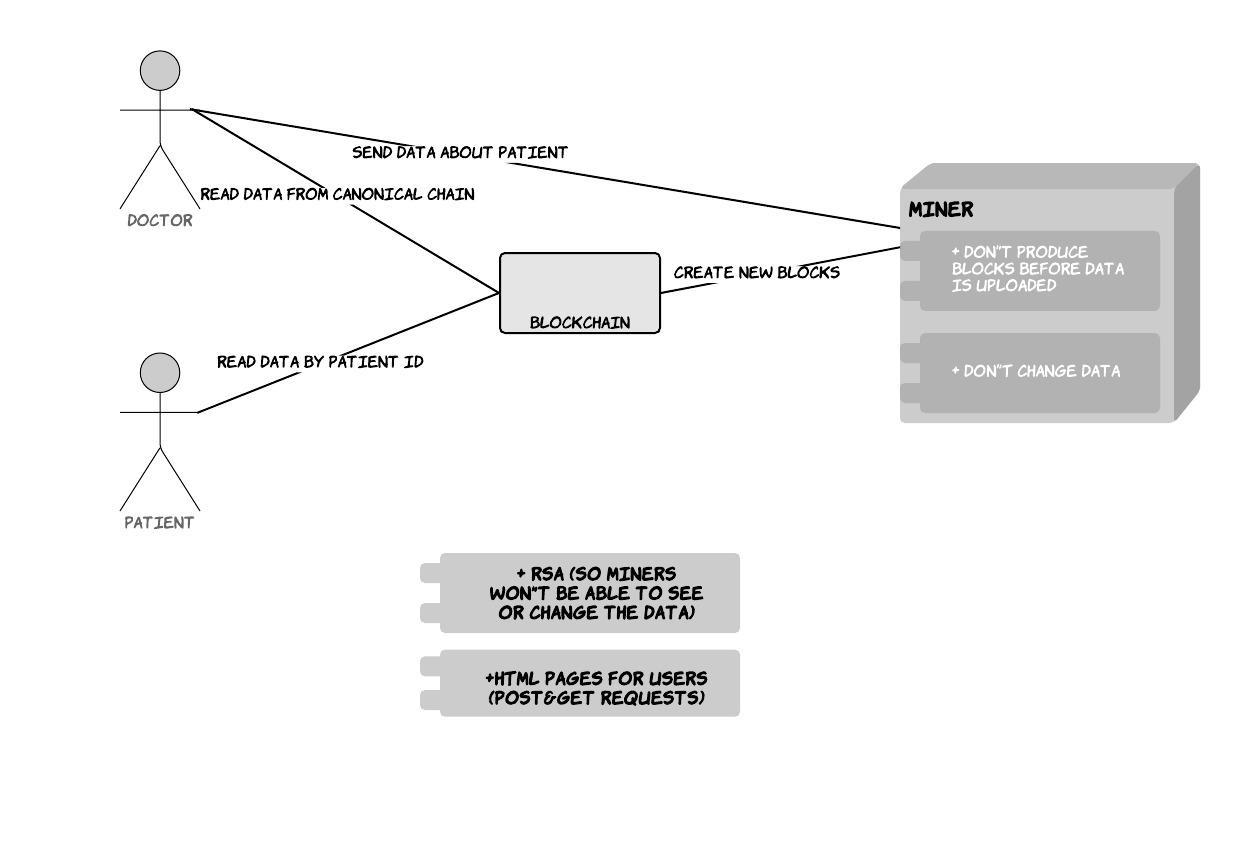
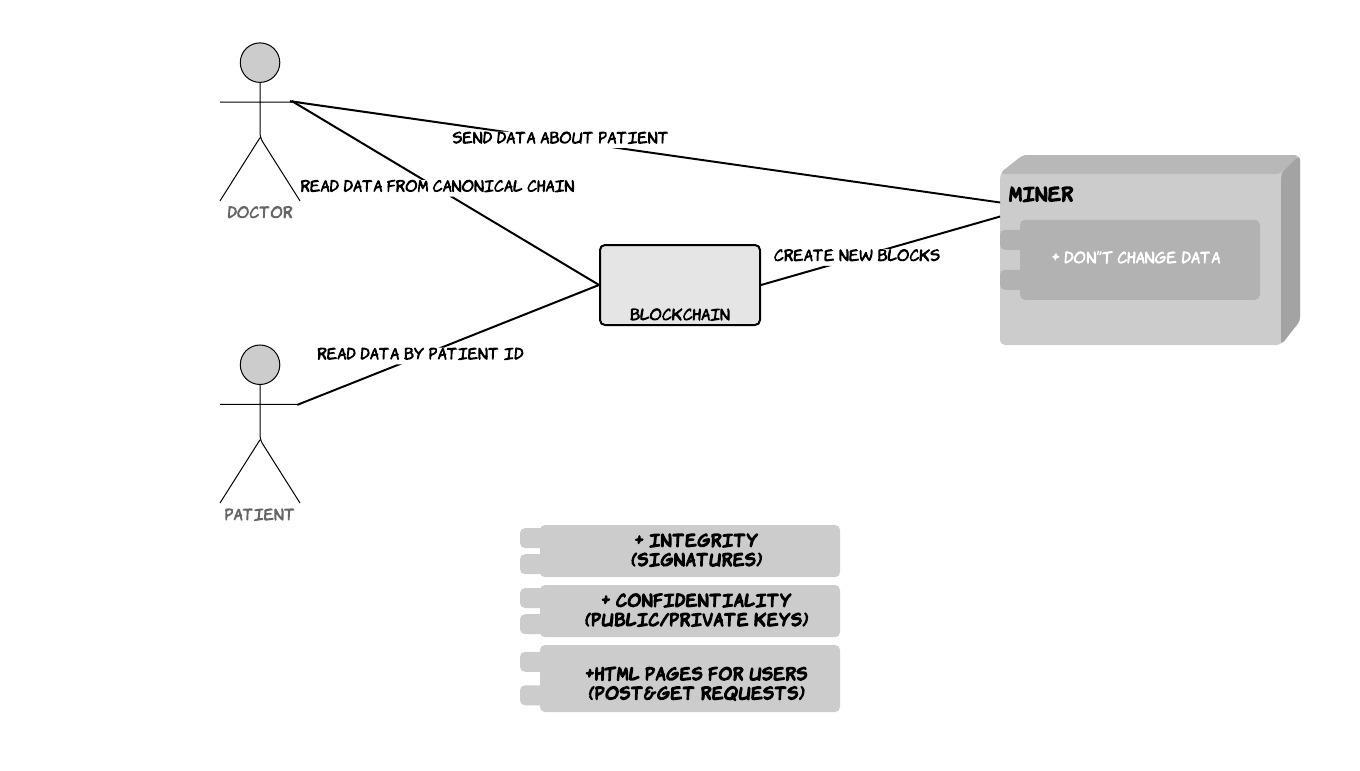
Updated README with picture and link

diff --git a/README.md b/README.md
@@ -7,7 +7,7 @@ Healthcare data
 
 ### Why/How
 
-Today, doctors, nurses & health professionals are limited in the level of care they can provide, because they canâ€™t view complete, accurate health records. Doctors will be able to publish medical records safely on the blockchain and only authorized people will be able to access the data.
+Today, doctors, nurses & health professionals are limited in the level of care they can provide, because they can not view complete, accurate health records. Doctors will be able to publish medical records safely on the blockchain and only authorized people will be able to access the data.
 Medical institutions will be able to securely share data, no medical records will be lost. Test results will come on time and the probability of correct diagnosis and effective treatment will be higher. Blockchain is immutable, so nobody will be able to fake or lose data. Blockchain is decentralized, so the information will be stored not only in one datacenter, in this case - in different medical institutions.
 
 ### Functionalities/Success
@@ -103,7 +103,9 @@ WebPage to write DocID
 POST /patient
 See information about a particular patient
 
+### Use Case Diagram
 
+![alt text](https://github.com/BettyRain/blockchain_project5/blob/master/Project5UseCaseDiagram.jpeg)
 
 ### Timeline and milestones
 
@@ -116,3 +118,6 @@ See information about a particular patient
 | 5 | Data confidentiality | May 8th |
 | 6 | Data integrity | May 10th |
 | 7 | View data by patients (Patient's App) | May 10th |
+
+### References
+Idea was found at [blockchain ideas](https://www.connectbit.com/blockchain-applications/)
